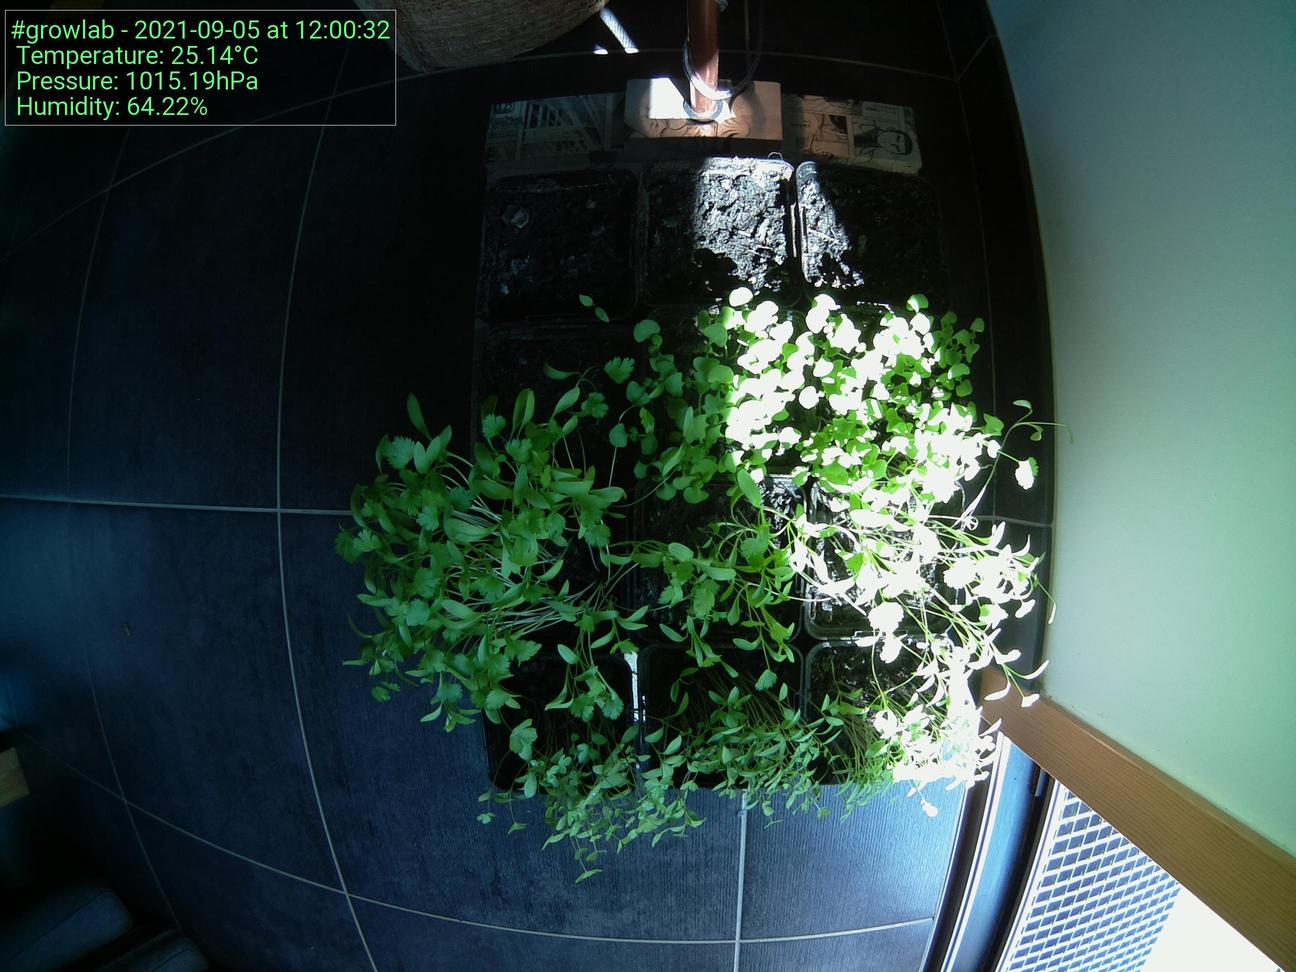
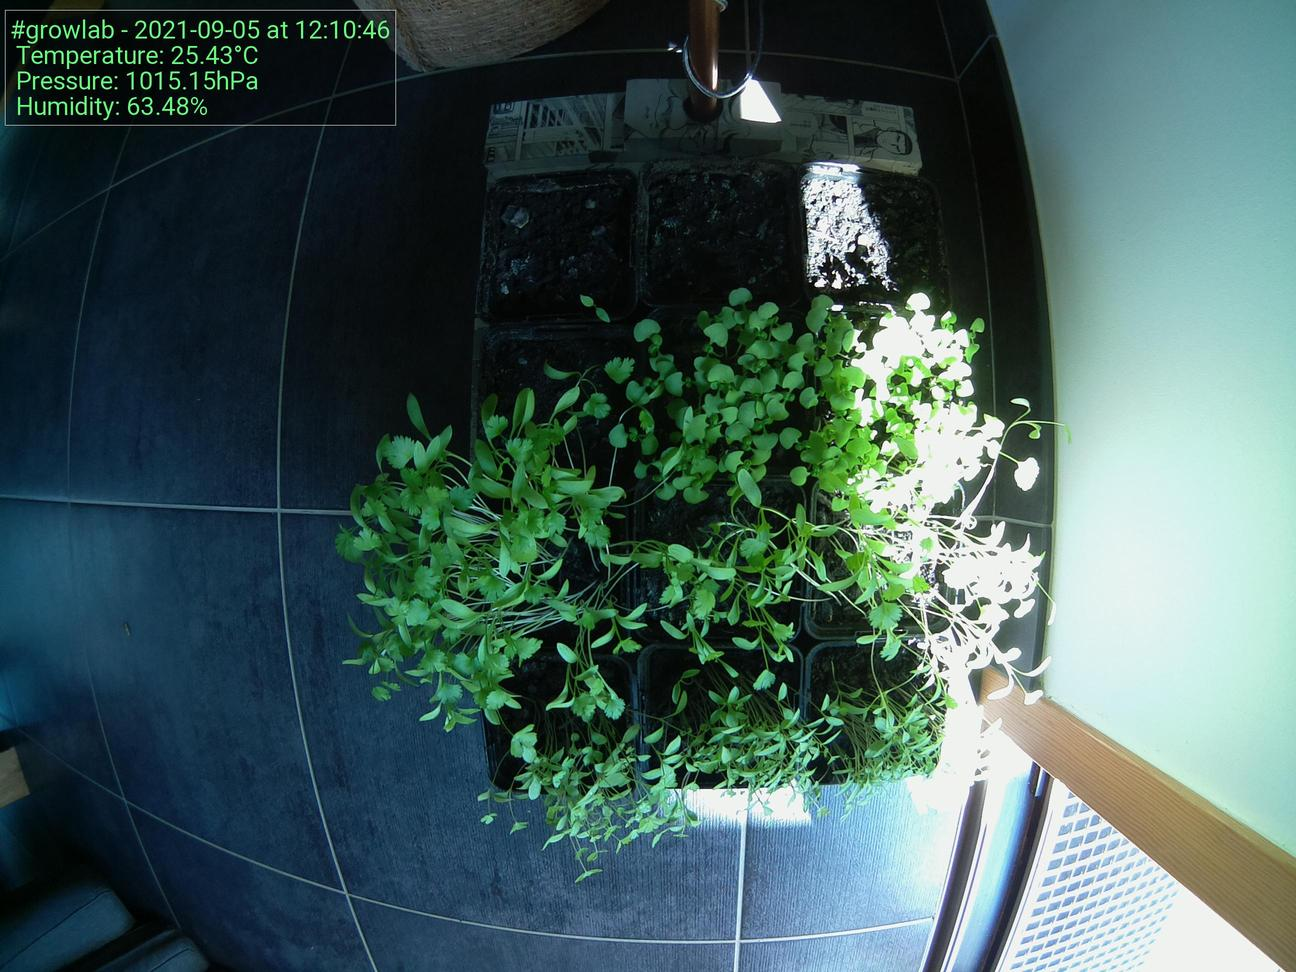
Update images at Sun  5 Sep 12:10:55 CEST 2021

diff --git a/docs/index.html b/docs/index.html
@@ -52,19 +52,19 @@
                             </tr>
                             <tr>
                                 <td>Time</td>
-                                <td>12:00:32</td>
+                                <td>12:10:46</td>
                             </tr>
                             <tr>
                                 <td>Temperature</td>
-                                <td>25.14°C</td>
+                                <td>25.43°C</td>
                             </tr>
                             <tr>
                                 <td>Humidity</td>
-                                <td>64.22%</td>
+                                <td>63.48%</td>
                             </tr>
                             <tr>
                                 <td>Pressure</td>
-                                <td>1015.19hPa</td>
+                                <td>1015.15hPa</td>
                             </tr>
                         </tbody>
                     </table>
@@ -72,7 +72,7 @@
 
                 <h5>Latest image</h5>
                 <div style="width: 85%;">
-                            <img class="figure-img img-fluid rounded" src="./preview.jpg?uid=1630836040.7626379">
+                            <img class="figure-img img-fluid rounded" src="./preview.jpg?uid=1630836654.8028493">
                 </div>
             </div>
         </div>
